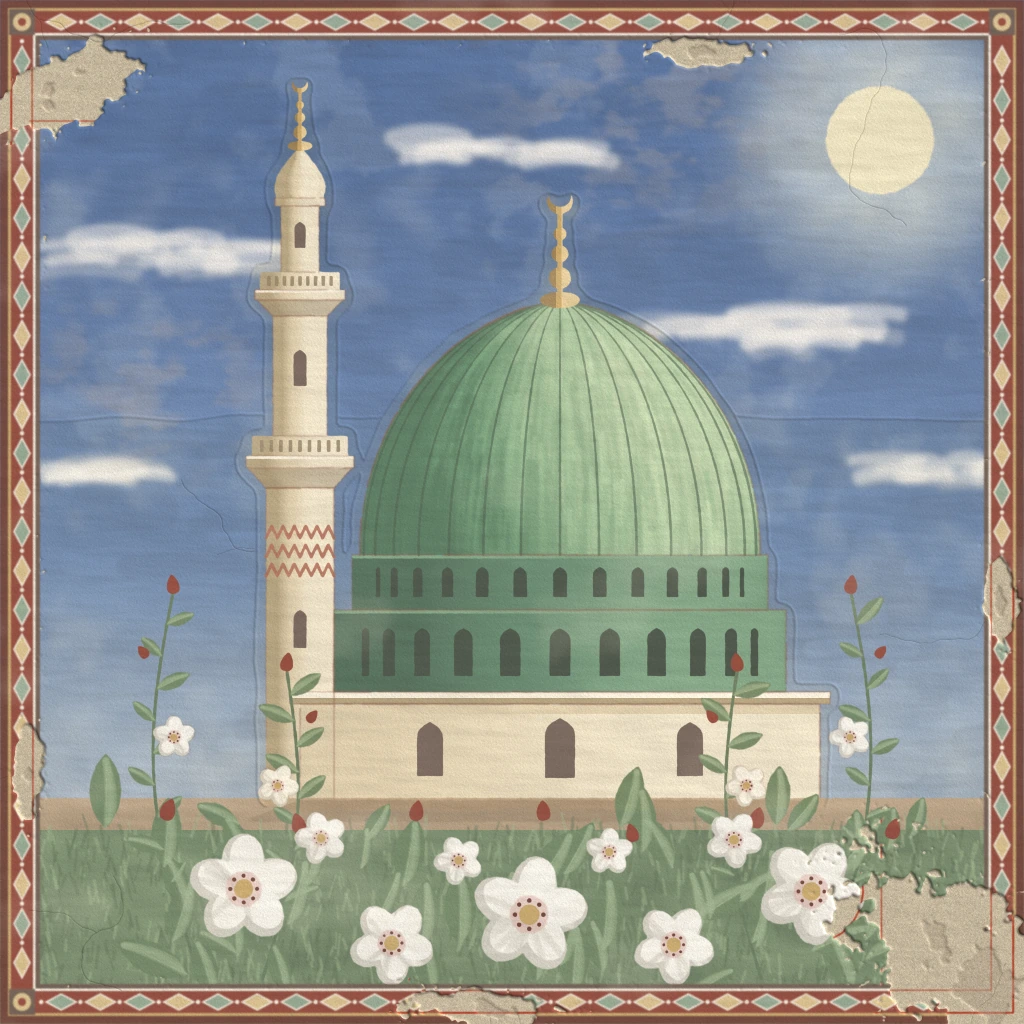
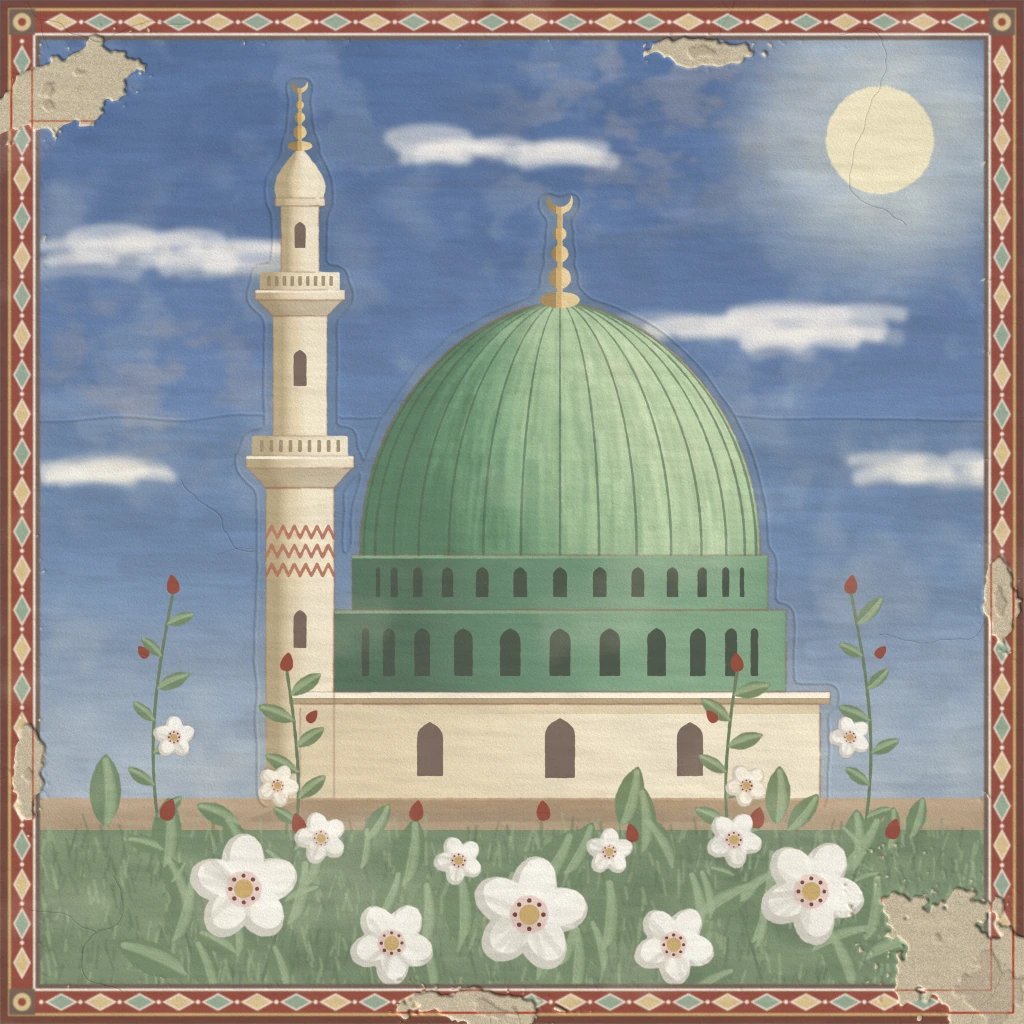
Atölye: ikinci tur gözden geçirmelerinin ara kaydı
Claude-Session: https://claude.ai/code/session_01Q8CfoBGMPN7gfLWQYpMs1J

Changed region(s): [[0.8125, 0.7812, 1.0, 1.0]]

diff --git a/atolye/stiller/S-044-fresk/ornek.html b/atolye/stiller/S-044-fresk/ornek.html
@@ -402,7 +402,7 @@
   const KORU = bulanik(MIMARI.m, WW, WW, 13, 2);
   // dökülme maskesi: köşelerde, bordürde, gökte ve yerde düzensiz yamalar (kaba alt sıva ve sinopia görünür)
   // [x, y, yarıçap, açı, uzama]: köşeden ve bordürden kopmuş, sıva kenarı boyunca uzanan düzensiz yamalar
-  const YAMA = [[972, 972, 96, 0.75, 1.45], [62, 90, 46, -0.5, 1.5], [486, 1010, 34, 0.05, 2.0], [1000, 604, 26, 1.55, 1.7], [700, 52, 25, 0.0, 2.0], [28, 772, 24, 1.6, 1.8]];
+  const YAMA = [[990, 988, 84, 0.75, 1.45], [62, 90, 46, -0.5, 1.5], [486, 1010, 34, 0.05, 2.0], [1000, 604, 26, 1.55, 1.7], [700, 52, 25, 0.0, 2.0], [28, 772, 24, 1.6, 1.8]];
   const KAYIP = new Float32Array(N), DERIN = new Float32Array(N), BKAY = new Float32Array(N);
   for (let y = 0; y < WW; y++) for (let x = 0; x < WW; x++) {
     const i = y * WW + x, X = x / S, Yy = y / S;
